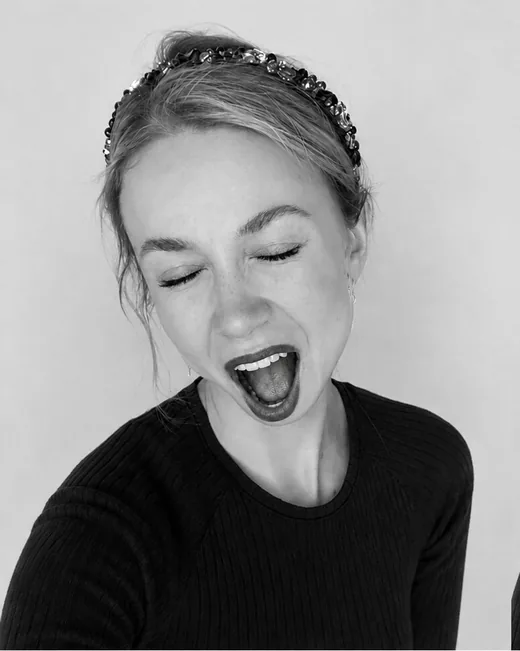
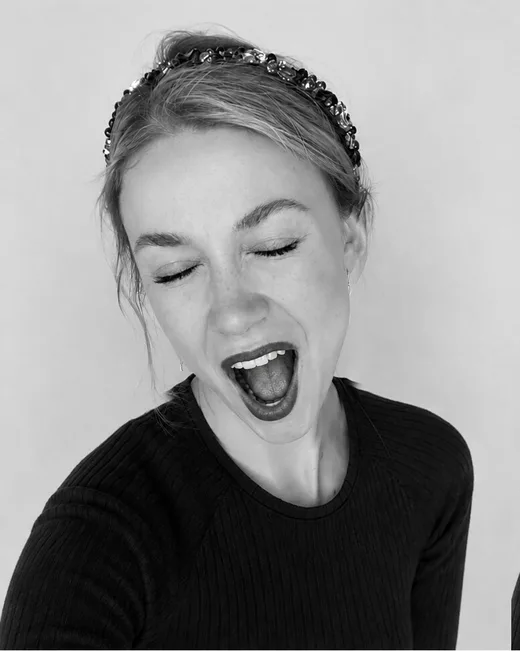
Match KS hover chin to source reference

diff --git a/ks/AGENTS.md b/ks/AGENTS.md
@@ -114,12 +114,14 @@ Below that it is an ordinary flowing document.
 
 - Two frames cross-fade in the same box: `assets/portrait/calm-*` and
   `assets/portrait/wink-*`. The hover expression comes from the client's exact
-  reference in `source-assets/portrait-rock-reference.png`; its complete face,
-  including the lower oval, jawline and chin, is registered into the calm frame.
-  The head position, hair, headband, neck, shoulders, clothes, background and
-  crop stay fixed. Do not independently crop, scale or reposition either export
-  — anything outside the facial-expression blend moving between frames breaks
-  the illusion of a single continuous shot.
+  reference in `source-assets/portrait-rock-reference.png`. Register that source
+  rigidly by the ears and crown, then keep its complete face — from the brows
+  through the open mouth, lower oval and elongated chin — at the source
+  proportions. Do not morph its jaw toward the shorter calm-frame jaw. The head
+  position, ear positions, hairline, neck, shoulders, clothes, background and
+  crop stay fixed; only a narrow seam below the chin may be feathered into the
+  calm body. Moving anything else between frames breaks the illusion of a single
+  continuous shot.
 - The frame is `aspect-ratio: 776 / 971`, the exact aspect of the source pair,
   and the images are `object-fit: cover` with no `object-position` shift. Zero
   crop means zero drift between the two states.

diff --git a/ks/README.md b/ks/README.md
@@ -21,9 +21,11 @@ project on the owner's `cz` server.
 
 The hero's rock-expression source is preserved at
 [`source-assets/portrait-rock-reference.png`](./source-assets/portrait-rock-reference.png).
-The published hover exports transfer the complete facial oval, including the
-jawline and chin, while keeping the head position, hair, neck, shoulders and
-body fixed so the cross-fade reads as one continuous portrait.
+The published hover exports rigidly register that exact source by the ears and
+crown, preserving its open mouth, complete lower oval and elongated chin without
+morphing them toward the calm face. The body, shoulders, background, ear
+positions and overall head placement stay fixed so the cross-fade reads as one
+continuous portrait.
 
 ## Source of truth
 
